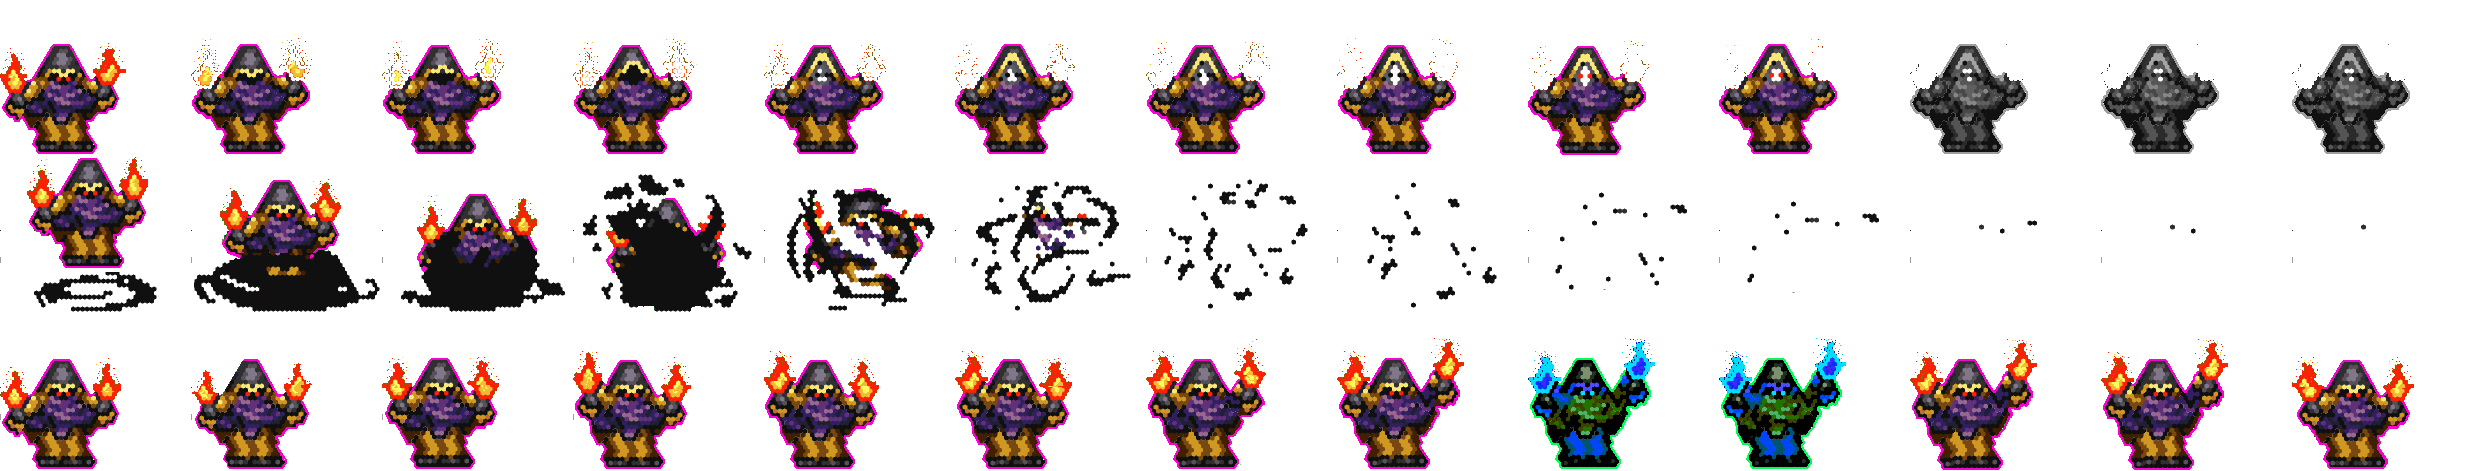
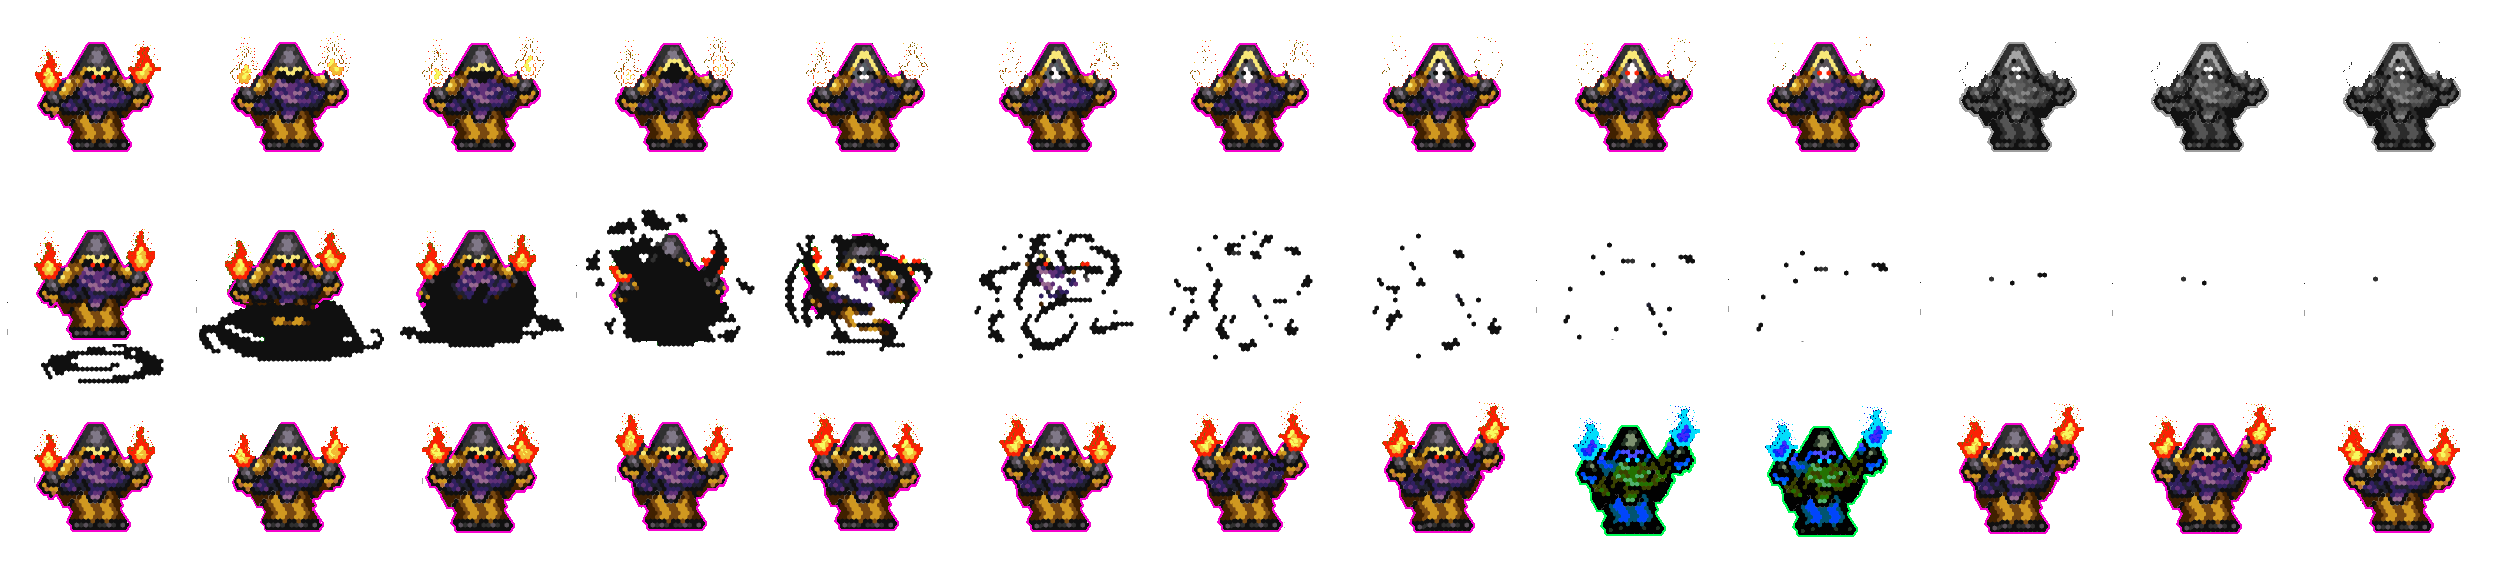
Updated Necro boss battle, updated bracer pick-up, and added Bracer to UI.

diff --git a/js/Entities/Enemies.js b/js/Entities/Enemies.js
@@ -259,20 +259,19 @@ class Zombie extends Enemy {
 class Necromancer
     extends Enemy {
 
-    constructor(game, spritesheet, x, y, width, height, array) {
+    constructor(game, spritesheet, x, y, width, height) {
         super(game, x, y, width, height, 2);
         this.tempCoordX = this.futureHitbox.xMin; // Stores the x-coord beneath the necormancer.
         this.tempCoordY = this.futureHitbox.yMin; // Stores the y-coord beneath the necromancer.
         this.alive = true;
-        this.animation = new Animation(spritesheet, this, 191, 157, .1, 1, [13], 1); // Necromancer sprite
+        this.animation = new Animation(spritesheet, this, 192, 192, .1, 1, [13], 1); // Necromancer sprite
         this.context = game.GAME_CONTEXT;
-        //this.enemiesArray = array; // Passing in ENEMIES array.
         this.health = 1;
         this.location = { //Necromancer teleport locations.
-            0: [57, 57],
-            1: [550, 150],
-            2: [300, 57],
-            3: [150, 90]
+            0: [250, 25],
+            1: [400, 75],
+            2: [150, 75],
+            3: [400, 25]
         };
         this.knightCount = 0; // Counter to generate how many knights per respawn.
         this.knightSpawned = 0; // Counter number of spawned knights on screen, used to reset conditional.
@@ -281,14 +280,29 @@ class Necromancer
         this.totalSpawned = 0; // Counter for total number of spawned knights.
         this.teleportAnimation = false;
         this.teleportMove = false;
-
+        this.dead = false;
 
     }
 
+    update() {
+        this.pushUpdate = true;
+        super.update();
+        this.lootDropped = false;
+        if (this.dead && !this.lootDropped) {
+            const bracer = new Pickup(this.game, this.hitbox.xMin + (this.width / 2), this.hitbox.yMin + (this.height / 2), 1, "bracer");
+            this.lootDropped = true;
+            console.log(bracer);
+
+            this.game.currentEntities[5].push(bracer);
+            console.log(this.game.currentEntities[5]);
+        }
+    }
+
+
     preUpdate() {
 
-        this.count += this.game.clockTick;
 
+        this.count += this.game.clockTick;
         if (this.knightSpawned === 0) {
             this.spawnKnight();
             if (this.knightSpawned === -1) {
@@ -309,18 +323,19 @@ class Necromancer
         } else if (this.count >= 3.9) { // HARD CODED VALUE FOR NOW... NOT FINAL
             this.count = 0;
 
-            if (this.attackCount === 4) {
+            if (this.attackCount === 2) {
 
                 this.teleportAnimation = true;
                 this.checkKnightCount();
                 this.attackCount = 0;
 
-            } else if ((this.attackCount < 5) && !this.isReadyToDie()) {
+            } else if ((this.attackCount < 3) && !this.isReadyToDie()) {
 
                 this.fireBallAttack();
                 this.attackCount++;
             }
         }
+
     }
 
     draw() {
@@ -330,22 +345,25 @@ class Necromancer
             if (this.actionElapsedTime >= 1.3) {
                 this.teleportMove = true;
                 this.actionElapsedTime = 0;
+                this.teleportAnimation = false;
             } else {
                 this.animation.drawFrame(this.game.clockTick, this.context,
                     this.hitbox.xMin - this.width * (1 - this.HITBOX_SHRINK_FACTOR),
                     this.hitbox.yMin - this.height * (1 - this.HITBOX_SHRINK_FACTOR), 'walking', 1);
             }
-            this.teleportAnimation = false;
         } else if (this.knightSpawned !== -1) {
             this.animation.drawFrame(this.game.clockTick, this.context,
                 this.hitbox.xMin - this.width * (1 - this.HITBOX_SHRINK_FACTOR),
                 this.hitbox.yMin - this.height * (1 - this.HITBOX_SHRINK_FACTOR), 'walking', 2);
         } else if (this.knightSpawned === -1 && this.isReadyToDie()) {
+            this.dead = true;
             this.animation.drawFrame(this.game.clockTick, this.context,
                 this.hitbox.xMin - this.width * (1 - this.HITBOX_SHRINK_FACTOR),
                 this.hitbox.yMin - this.height * (1 - this.HITBOX_SHRINK_FACTOR), 'walking', 0);
+            this.alive = false;
+            this.update();
+
         }
-        this.game.GAME_CONTEXT.strokeRect(this.hitbox.xMin, this.hitbox.yMin, this.width, this.height);
 
     }
 
@@ -380,7 +398,9 @@ class Necromancer
             }
 
             for (let i = 0; i < this.knightCount; i++) {
-                let rand = Math.floor(Math.random() * 600);
+                let minX = 56;
+                let maxX = 546;
+                let rand = Math.random() * (+maxX - +minX) + +minX;
                 let min = 500;
                 let max = 500;
                 let rand2 = Math.random() * (+max - +min) + +min;
@@ -420,7 +440,7 @@ class Knight
         super(game, x, y, width, height, 2);
         this.animation = new Animation(spritesheet, this, 62, 70, .11, 2, [7], 1);
         this.context = game.GAME_CONTEXT;
-        this.speed = 100;
+        this.speed = 50;
         this.count = 0;
         this.alive = true;
 
@@ -475,11 +495,11 @@ class Sniper extends Enemy {
         this.count += this.game.clockTick;
         if (!this.game.pause && this.count > 3.0) {
             if (this.position === "SOUTH") {
-                this.vertarrow = new VerticalArrow(this.game, this.game.ASSETS_LIST["./res/img/vert_arrow.png"], this.futureHitbox.xMin + (this.futureHitbox.xMin *.10), this.futureHitbox.yMin + this.height, this.position); //correct
+                this.vertarrow = new VerticalArrow(this.game, this.game.ASSETS_LIST["./res/img/vert_arrow.png"], this.futureHitbox.xMin + (this.futureHitbox.xMin * .10), this.futureHitbox.yMin + this.height, this.position); //correct
                 this.game.currentEntities[3].push(this.vertarrow);
 
             } else if (this.position === "NORTH") {
-                this.vertarrow = new VerticalArrow(this.game, this.game.ASSETS_LIST["./res/img/vert_arrow.png"], this.futureHitbox.xMin + (this.futureHitbox.xMin * .025), this.futureHitbox.yMin - (this.futureHitbox.yMin * .15) , this.position); //correct
+                this.vertarrow = new VerticalArrow(this.game, this.game.ASSETS_LIST["./res/img/vert_arrow.png"], this.futureHitbox.xMin + (this.futureHitbox.xMin * .025), this.futureHitbox.yMin - (this.futureHitbox.yMin * .15), this.position); //correct
                 this.game.currentEntities[3].push(this.vertarrow);
 
             } else if (this.position === "EAST") {
@@ -786,7 +806,7 @@ class TargetOwner extends Sign {
         this.complete = false;
     }
 
-    update () {
+    update() {
         if (this.activated) {
             this.timeCounter += this.game.clockTick;
             if (this.timeCounter >= this.time) {

diff --git a/js/GameEngine.js b/js/GameEngine.js
@@ -92,12 +92,15 @@ class GameEngine {
         this.WORLDS["openworld"] = new OpenWorld(this, this.ASSETS_LIST["./res/img/worlds/openworld.png"], this.ASSETS_LIST["./res/img/worlds/openworld2.png"], 2, 4);
         this.WORLDS["cavebasic"] = new CaveBasic(this, this.ASSETS_LIST["./res/img/worlds/cavebasic.png"], this.ASSETS_LIST["./res/img/worlds/cavebasic2.png"], 0, 0);
         this.WORLDS["bluehouse"] = new BlueHouse(this, this.ASSETS_LIST["./res/img/worlds/bluehouse.png"], this.ASSETS_LIST["./res/img/worlds/bluehouse2.png"], 0, 0);
-        this.WORLDS["necro"] = new NecroDungeon(this, this.ASSETS_LIST["./res/img/worlds/necro.png"], this.ASSETS_LIST["./res/img/worlds/necro2.png"], 4, 2);
+        //this.WORLDS["necro"] = new NecroDungeon(this, this.ASSETS_LIST["./res/img/worlds/necro.png"], this.ASSETS_LIST["./res/img/worlds/necro2.png"], 4, 2);
+        this.WORLDS["necro"] = new NecroDungeon(this, this.ASSETS_LIST["./res/img/worlds/necro.png"], this.ASSETS_LIST["./res/img/worlds/necro2.png"], 0, 2);
+
         this.WORLDS["wolf"] = new WolfDungeon(this, this.ASSETS_LIST["./res/img/worlds/wolf.png"], this.ASSETS_LIST["./res/img/worlds/wolf2.png"], 0, 0);
         this.WORLDS["test"] = new TestDungeon(this, this.ASSETS_LIST["./res/img/worlds/testroom.png"], this.ASSETS_LIST["./res/img/worlds/testroom2.png"], 0, 0);
 
 
-        this.currentWorld = this.WORLDS["openworld"]; // Set the current world to the open worlds
+        //this.currentWorld = this.WORLDS["openworld"]; // Set the current world to the open worlds
+        this.currentWorld = this.WORLDS["necro"]; // Set the current world to the open worlds
         // this.currentWorld = this.WORLDS["necro"];
         this.currentMusicID = overworldMusic.play();
         this.changeEntitiesToCurrent();

diff --git a/js/Entities/Block.js b/js/Entities/Block.js
@@ -191,6 +191,7 @@ class Pickup extends Entity {
         if (type === 'boots') this.animation = new Animation(this.game.ASSETS_LIST['./res/img/boots.png'], this, 18, 19, .15, 2, [1]);
         if (type === 'healthUpgrade') this.animation = new Animation(this.game.ASSETS_LIST['./res/img/goldheart.png'], this, 16, 16, .15, 2, [1]);
         if (type === 'bow') this.animation = new Animation(this.game.ASSETS_LIST['./res/img/bow.png'], this, 16, 16, .15, 2, [1]);
+        if (type === 'bracer') this.animation = new Animation(this.game.ASSETS_LIST['./res/img/bracer.png'], this, 30, 29, .15, 2, [1]);
     }
 
     add(hero) {
@@ -221,6 +222,9 @@ class Pickup extends Entity {
             if (this.type === 'healthUpgrade') {
                 hero.maxHealth = 10;
                 hero.health = 10;
+            }
+            if (this.type === 'bracer') {
+                hero.inventory.push('bracer');
             }
             this.alive = false;
         }

diff --git a/js/Main.js b/js/Main.js
@@ -20,6 +20,7 @@ window.onload = () => {
 AssetHandler.queueImage("./res/img/worlds/bluehouse.png");
 AssetHandler.queueImage("./res/img/worlds/bluehouse2.png");
 AssetHandler.queueImage("./res/img/hero.png");
+AssetHandler.queueImage("./res/img/bracer.png");
 AssetHandler.queueImage("./res/img/upgrade-bar.png");
 AssetHandler.queueImage("./res/img/blinking-dot.png");
 AssetHandler.queueImage("./res/img/smallchest.png");
@@ -43,6 +44,7 @@ AssetHandler.queueImage("./res/img/knight.png");
 AssetHandler.queueImage("./res/img/whip.png");
 AssetHandler.queueImage("./res/img/whipUI.png");
     AssetHandler.queueImage("./res/img/bowUI.png");
+    AssetHandler.queueImage("./res/img/bracerUI.png");
     AssetHandler.queueImage("./res/img/bow_upgrade.png");
     AssetHandler.queueImage("./res/img/whip_upgrade.png");
 AssetHandler.queueImage("./res/img/crab.png");

diff --git a/js/Worlds/TileMap.js b/js/Worlds/TileMap.js
@@ -82,8 +82,7 @@ class TileMap {
             }
             else if (entity.type === 'Necromancer') {
                 this.ENEMIES.push(
-                    new Necromancer(this.game, this.game.ASSETS_LIST['./res/img/necro.png'], 500, 57, 56, 56,
-                        this.ENEMIES));
+                    new Necromancer(this.game, this.game.ASSETS_LIST['./res/img/necro.png'], 400, 25, 120, 110));
             }
             else if (entity.type === 'Beast') {
                 this.ENEMIES.push(new Beast(this.game, this.game.ASSETS_LIST['./res/img/beast.png'], entity.x * 60/16, entity.y * 60/16, 56, 56,

diff --git a/js/UserInterface.js b/js/UserInterface.js
@@ -17,6 +17,7 @@ class UserInterface {
         this.bossKey = this.images["./res/img/bosskey.png"]; // 9 x 14
 
 
+
         this.keyJImage = this.images["./res/img/keyJ.png"];
         this.keyKImage = this.images["./res/img/keyK.png"];
 
